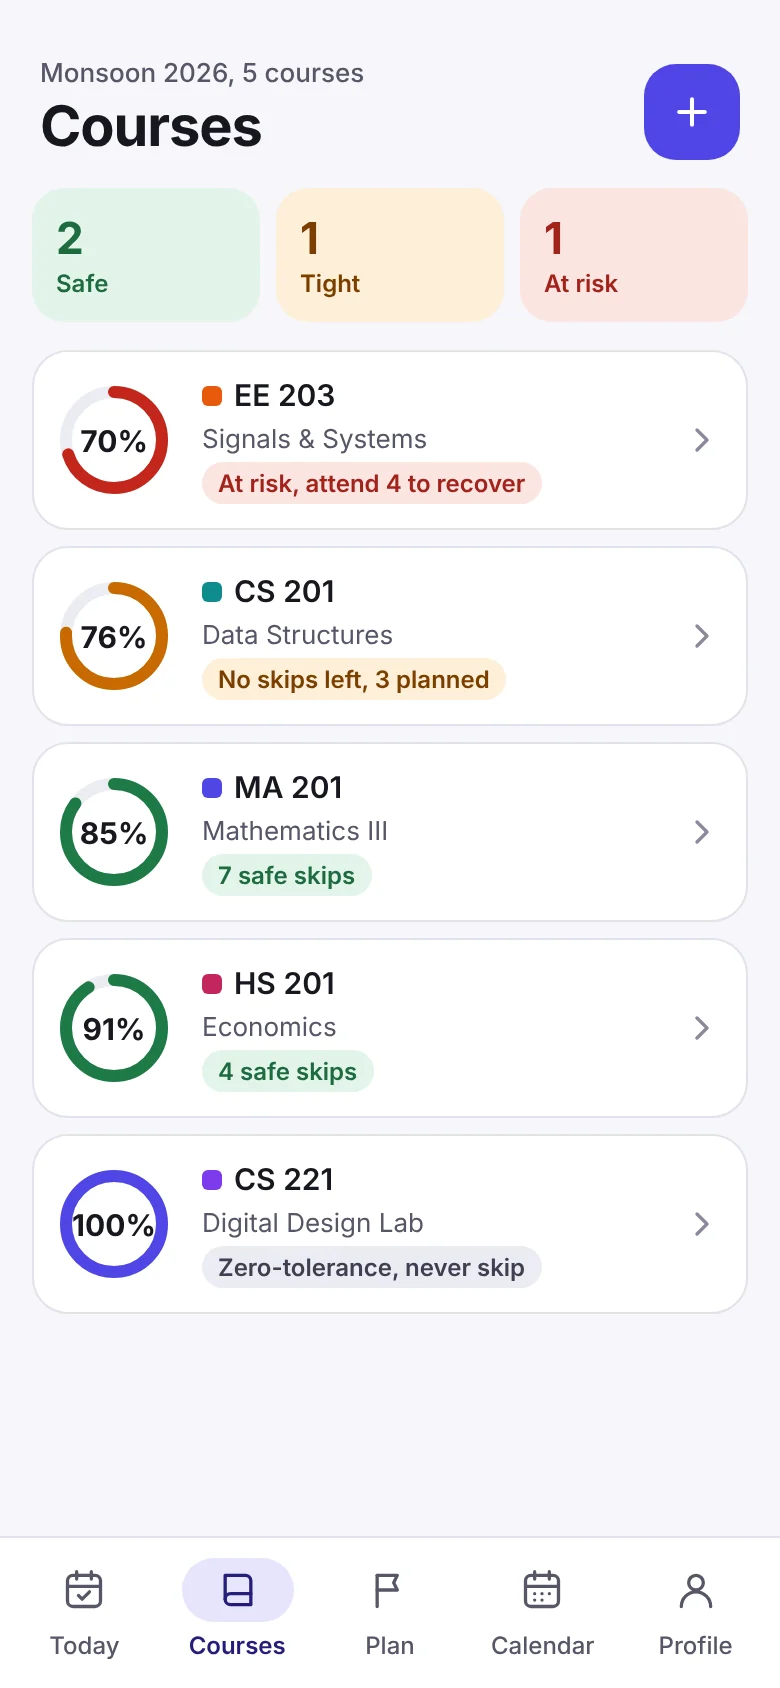
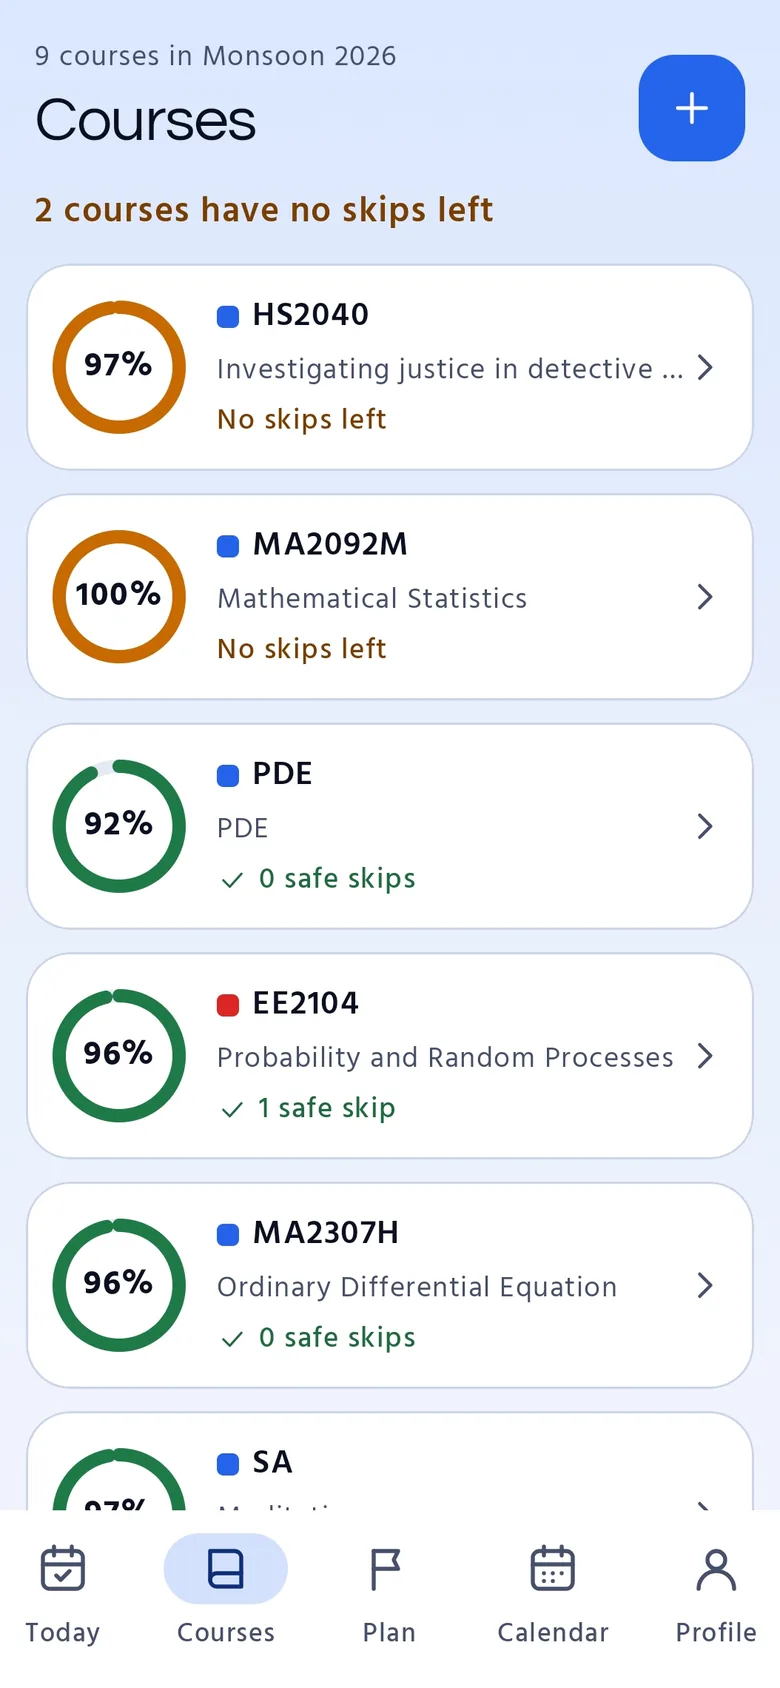
Website and README: real app screenshots, in light and dark
The main screens are now screenshots from the Android app instead of design mockups: Today, Courses, Plan and the weekly timetable, each with a dark version that follows the visitor's theme, plus the Profile screen. The status bar is cropped off. The site gets a section on streaks, badges and avatars and two feature cards (the weekly timetable and streaks), and the README features list and captions are updated. Widgets and notifications stay as mockups.

diff --git a/site/index.html b/site/index.html
@@ -50,7 +50,8 @@
     "https://priyanshuiitghy2006.github.io/AttendWise/img/today.webp",
     "https://priyanshuiitghy2006.github.io/AttendWise/img/courses.webp",
     "https://priyanshuiitghy2006.github.io/AttendWise/img/plan.webp",
-    "https://priyanshuiitghy2006.github.io/AttendWise/img/calendar.webp"
+    "https://priyanshuiitghy2006.github.io/AttendWise/img/calendar.webp",
+    "https://priyanshuiitghy2006.github.io/AttendWise/img/profile.webp"
   ],
   "author": {
     "@type": "Person",
@@ -197,6 +198,7 @@
   .duo .p2 { z-index: 1; width: 122px; left: calc(50% + 24px); top: 100px; rotate: 6deg; }
   .duo.flip .p1 { width: 200px; left: calc(50% - 60px); rotate: 4deg; }
   .duo.flip .p2 { width: 120px; left: calc(50% - 140px); top: 90px; rotate: -6deg; }
+  .duo.solo .p1 { width: 200px; left: calc(50% - 100px); rotate: 3deg; }
   .tag {
     position: absolute; z-index: 3; padding: 9px 16px; border-radius: 14px; border: 2px solid var(--tag-edge);
     font: 500 1.0625rem/1.1 var(--body); white-space: nowrap; box-shadow: 0 12px 24px rgba(0, 0, 0, 0.35);
@@ -279,6 +281,7 @@
     .duo .p2 { width: 230px; left: calc(50% + 20px); top: 130px; }
     .duo.flip .p1 { width: 290px; left: calc(50% - 30px); }
     .duo.flip .p2 { width: 230px; left: calc(50% - 290px); }
+    .duo.solo .p1 { width: 290px; left: calc(50% - 145px); }
     .phone { padding: 10px; border-radius: 46px; }
     .phone img { border-radius: 36px; }
     .split { grid-template-columns: 1fr 1fr; gap: 64px; }
@@ -385,11 +388,14 @@
         <div class="phone p1">
           <picture>
             <source srcset="/AttendWise/img/today-dark.webp" media="(prefers-color-scheme: dark)">
-            <img src="/AttendWise/img/today.webp" width="780" height="1688" fetchpriority="high" decoding="async" alt="The Today screen: five classes for Thursday 1 October with present and absent buttons, a day swap notice and a Can I bunk today card.">
+            <img src="/AttendWise/img/today.webp" width="780" height="1688" fetchpriority="high" decoding="async" alt="The Today screen: four classes for Tuesday 10 November, each with its status, and a Can I bunk today card.">
           </picture>
         </div>
         <div class="phone p2">
-          <img src="/AttendWise/img/courses.webp" width="780" height="1688" alt="The Courses screen: five courses with attendance rings and how many safe skips each has left.">
+          <picture>
+            <source srcset="/AttendWise/img/courses-dark.webp" media="(prefers-color-scheme: dark)">
+            <img src="/AttendWise/img/courses.webp" width="780" height="1688" alt="The Courses screen: courses with attendance rings and how many safe skips each has left.">
+          </picture>
         </div>
         <span class="tag orange t-hero-a"><svg viewBox="0 0 24 24" fill="currentColor" aria-hidden="true"><path d="M3 2l18 8-8 2-2 8z" stroke="#fff" stroke-width="1.6" stroke-linejoin="round"></path></svg>Safe to skip, 4 left</span>
         <span class="tag blue t-hero-b"><svg viewBox="0 0 24 24" fill="currentColor" aria-hidden="true"><path d="M3 2l18 8-8 2-2 8z" stroke="#fff" stroke-width="1.6" stroke-linejoin="round"></path></svg>Marked present</span>
@@ -403,14 +409,20 @@
       <div class="glass">
         <h2>What is AttendWise?</h2>
         <p class="muted">A native Android app for college attendance. It keeps your timetable, counts every class, and tells you how many classes you can still skip in each course before you drop under the requirement.</p>
-        <p class="muted">Today's classes, safe skips per course, a day-off planner, the institute calendar with day swaps, and home-screen widgets, all in one place.</p>
+        <p class="muted">Today's classes, safe skips per course, a day-off planner, a weekly timetable, the institute calendar with day swaps, and home-screen widgets, all in one place.</p>
       </div>
       <div class="duo flip" data-speed="0.04">
         <div class="phone p1">
-          <img src="/AttendWise/img/plan.webp" width="780" height="1688" loading="lazy" alt="The Plan screen: a month calendar with two days off chosen and a verdict for each course.">
+          <picture>
+            <source srcset="/AttendWise/img/plan-dark.webp" media="(prefers-color-scheme: dark)">
+            <img src="/AttendWise/img/plan.webp" width="780" height="1688" loading="lazy" alt="The Plan screen: a month calendar with days off chosen and a verdict for each course.">
+          </picture>
         </div>
         <div class="phone p2">
-          <img src="/AttendWise/img/calendar.webp" width="780" height="1688" loading="lazy" alt="The Calendar screen: a month with holidays, a day swap and the day's classes.">
+          <picture>
+            <source srcset="/AttendWise/img/calendar-dark.webp" media="(prefers-color-scheme: dark)">
+            <img src="/AttendWise/img/calendar.webp" width="780" height="1688" loading="lazy" alt="The weekly timetable: one column per day with each class at its real time, a holiday column and a day swap.">
+          </picture>
         </div>
         <span class="tag orange t-what"><svg viewBox="0 0 24 24" fill="currentColor" aria-hidden="true"><path d="M3 2l18 8-8 2-2 8z" stroke="#fff" stroke-width="1.6" stroke-linejoin="round"></path></svg>Runs Friday</span>
       </div>
@@ -454,6 +466,31 @@
           <h3>Reminders you can answer</h3>
           <p>Get a reminder before each class and a prompt after it. Tap Present, Absent or Cancelled right from the notification.</p>
         </div>
+        <div class="feat">
+          <svg viewBox="0 0 24 24" fill="none" stroke="currentColor" stroke-width="1.2" stroke-linecap="round" stroke-linejoin="round" aria-hidden="true"><rect x="3" y="4" width="18" height="17" rx="3"></rect><path d="M9 4v17M15 4v17M3 10h18"></path></svg>
+          <h3>Your week on one screen</h3>
+          <p>A timetable with one column per day and every class at its real time. Holidays fill their column and swapped days are marked.</p>
+        </div>
+        <div class="feat">
+          <svg viewBox="0 0 24 24" fill="none" stroke="currentColor" stroke-width="1.2" stroke-linecap="round" stroke-linejoin="round" aria-hidden="true"><path d="M12 3c1 3.5 5 5 5 9.5a5 5 0 0 1-10 0c0-1.7.7-3 1.8-4 .2 1.5 1 2.3 2 2.5C11 8.5 11 5.5 12 3z"></path></svg>
+          <h3>Streaks and badges</h3>
+          <p>Attend classes in a row to build a streak, earn badges along the way, and pick an avatar. A small celebration marks each new badge.</p>
+        </div>
+      </div>
+    </div>
+  </section>
+
+  <section class="what slide" id="streaks">
+    <div class="wrap split">
+      <div class="duo solo" data-speed="0.04">
+        <div class="phone p1">
+          <img src="/AttendWise/img/profile.webp" width="780" height="1688" loading="lazy" alt="The Profile screen: an avatar, a class streak with the last sixteen classes as dots, and a grid of badges with the next one to earn.">
+        </div>
+      </div>
+      <div class="glass">
+        <h2>Keep a streak going</h2>
+        <p class="muted">Every class you attend in a row adds to your streak, and your best streak is kept. Earn badges for long streaks, early mornings, lab days and perfect weeks, and choose one of twelve avatars for your profile.</p>
+        <p class="muted">Nothing here nudges you to skip. Cancelled and on-duty classes never break a streak.</p>
       </div>
     </div>
   </section>

diff --git a/README.md b/README.md
@@ -33,14 +33,27 @@
 <br>
 
 <p align="center">
-  <img src="site/img/today.webp" alt="Today screen" width="23%">
-  <img src="site/img/courses.webp" alt="Courses screen" width="23%">
-  <img src="site/img/plan.webp" alt="Plan screen" width="23%">
-  <img src="site/img/calendar.webp" alt="Calendar screen" width="23%">
+  <picture>
+    <source media="(prefers-color-scheme: dark)" srcset="site/img/today-dark.webp">
+    <img src="site/img/today.webp" alt="Today screen" width="18%">
+  </picture>
+  <picture>
+    <source media="(prefers-color-scheme: dark)" srcset="site/img/courses-dark.webp">
+    <img src="site/img/courses.webp" alt="Courses screen" width="18%">
+  </picture>
+  <picture>
+    <source media="(prefers-color-scheme: dark)" srcset="site/img/plan-dark.webp">
+    <img src="site/img/plan.webp" alt="Plan screen" width="18%">
+  </picture>
+  <picture>
+    <source media="(prefers-color-scheme: dark)" srcset="site/img/calendar-dark.webp">
+    <img src="site/img/calendar.webp" alt="Weekly timetable" width="18%">
+  </picture>
+  <img src="site/img/profile.webp" alt="Profile with streak and badges" width="18%">
 </p>
 
 <p align="center">
-  <sub>Today, Courses, Plan and Calendar. These are design mockups of the main screens.</sub>
+  <sub>Today, Courses, Plan, the weekly timetable and Profile, from the Android app. The screens follow your phone's light or dark theme.</sub>
 </p>
 
 <br>
@@ -57,21 +70,21 @@ AttendWise is an attendance tracker. It does not encourage anyone to skip classe
 - **Courses.** An attendance ring per course, how many safe skips are left, and zero-tolerance courses such as labs flagged so they are never skipped by accident. Each course has its own requirement.
 - **Course detail.** Attended, missed, left and planned classes, what you need to recover, a projection to the end of the semester, the course timetable and the marking history.
 - **Plan.** Pick the days you want off and see, per course, whether those classes are safe, risky or must be attended. Plans can be applied and undone.
-- **Calendar.** The institute calendar with holidays, exams and day swaps, so a Thursday that runs Friday's timetable shows Friday's classes.
+- **Calendar.** A weekly timetable with one column per day and every class at its real time and length, and a month view. Holidays fill their column and day swaps are marked, so a Thursday that runs Friday's timetable shows Friday's classes. Tap a class to see its room and mark it.
+- **Profile.** Pick one of twelve avatars, follow your class streak (classes attended in a row, with your best and your last sixteen classes), and unlock nine badges as you go, with a small celebration for each new one. Settings sit one tap away at the end of the page.
 - **Widgets.** Five home screen widgets: today's classes, next class, course ring, "Can I bunk today?" and courses that need attention. Classes can be marked from the widget.
 - **Notifications.** A reminder before each class and a prompt after it, with Present, Absent and Cancelled buttons on the notification. Reminders the evening before a planned skip, a daily digest of unmarked classes, quiet hours, and three wording styles (roast, plain, kuchupuchu).
 - **Works offline.** Everything runs from the on-device database. Sync happens in the background when there is a network.
-- **Themes.** Light, dark or follow the system, plus a launcher icon that changes colour with your attendance.
+- **Themes.** Light, dark or follow the system, plus a launcher icon that changes colour with your attendance. The loading screen shows a different small animated scene each launch.
 - **In-app updates.** The app checks GitHub Releases for a newer build and installs it from inside the app.
 
 <p align="center">
   <img src="site/img/widgets.webp" alt="Home screen widgets" width="30%">
   <img src="site/img/notifications.webp" alt="Notifications with action buttons" width="30%">
-  <img src="site/img/today-dark.webp" alt="Today screen in dark mode" width="30%">
 </p>
 
 <p align="center">
-  <sub>Widgets, notifications with action buttons, and dark mode.</sub>
+  <sub>Home screen widgets and notifications with action buttons. These two are design mockups.</sub>
 </p>
 
 ## Install
